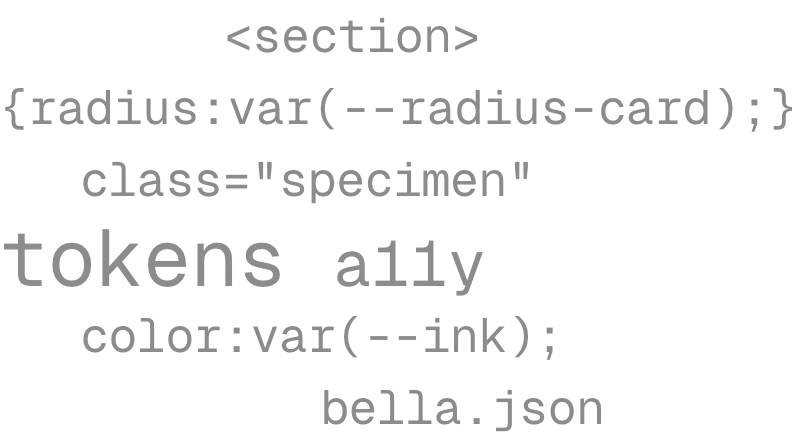
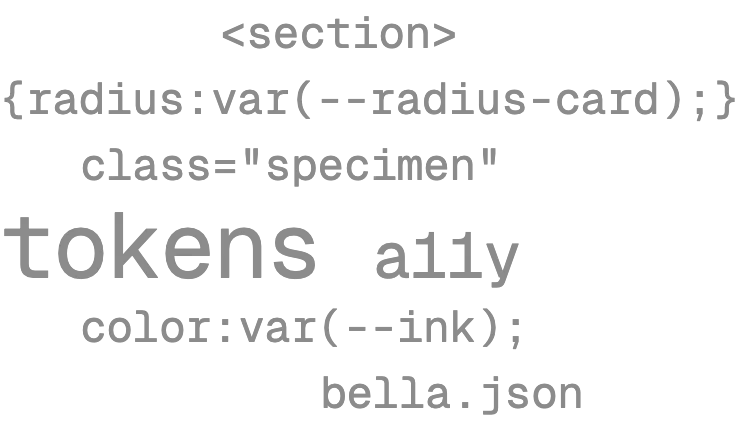
fix(home): hero scale matches the prototype
The 1024 step-down (scale 0.78) is gone: the full stage at every width
from 901px, the right column narrowed there to clear the hair. The
words start 53px below the photo's top (251 at 1440 in both states).
The faint code is the prototype's own block (370 x 213, a 2x picture)
at left 76% / top 56%, behind the hair and shoulder. The portrait
stays 540 wide: 564 would be over half the 1080px source (audit:sharp).

diff --git a/components/Hero.module.css b/components/Hero.module.css
@@ -20,7 +20,8 @@
 
 .col {
   position: absolute;
-  top: var(--space-stack-lg);
+  /* from the stage's top (frame minus stage), then the word drop */
+  top: calc(var(--hero-frame-h) - var(--hero-stage-h) + var(--hero-word-drop));
   z-index: 6;
   width: var(--hero-col);
 }
@@ -186,6 +187,7 @@
 
 /* the portrait is wider than the card: the shoulder runs past it */
 .portrait {
+  z-index: 1; /* above the faint code in the same layer */
   width: 120%;
   max-width: none; /* the global img cap squashed it to 100% (fixed 18d) */
   filter: drop-shadow(var(--hero-shadow));
@@ -323,16 +325,15 @@
   clip-path: inset(0 0 0 calc(100% * var(--hero-p)));
 }
 
-/* faint code behind the photo, peeking out right of the shoulder: a
-   grey picture (hero-code.webp), faded to sit back on either ground.
-   It starts at shoulder height and ends on the photo's bottom, so none
-   of it shows over the hair or under the hero (18d) */
+/* faint code behind the hair and shoulder, the portrait covering its
+   left part: the prototype's block as a grey picture (hero-code.webp),
+   at its size and place (Elleta, 4 Oct 2026, 18f; supersedes 18d) */
 .code {
   position: absolute;
-  left: 96%;
-  top: 68%;
-  z-index: 1;
-  width: 16.25rem;
+  left: 76%;
+  top: 56%;
+  z-index: 0;
+  width: 23.125rem; /* the prototype's block, 370 x 213 (18f) */
   max-width: none;
   height: auto;
   opacity: calc(0.5 * (1 - var(--hero-p))); /* gone while pulled apart, like the plates fade in (18f) */
@@ -363,7 +364,7 @@
 .legend {
   position: absolute;
   right: 0;
-  top: 18.25rem;
+  top: calc(var(--hero-frame-h) - var(--hero-stage-h) + 16.625rem); /* 266px under the stage top */
   z-index: 8;
   display: grid;
   gap: var(--spacing-3);
@@ -403,15 +404,11 @@
   color: var(--color-ink-muted);
 }
 
-/* the middle widths: the stage steps down beside the columns */
+/* the middle widths keep the full stage (as the prototype); the right
+   column narrows so its lines clear the hair (18f) */
 @media (min-width: 901px) and (max-width: 1199px) {
-  .stage {
-    transform: translateX(-56%) scale(0.78);
-    transform-origin: 50% 100%;
-  }
-
-  .col {
-    width: calc(var(--hero-col) - 2.5rem);
+  .right {
+    width: 15rem;
   }
 }
 

diff --git a/components/Hero.tsx b/components/Hero.tsx
@@ -137,7 +137,7 @@ export default function Hero() {
                   under the contrast floor, so nothing for an audit to read. It rides
                   the photo's layer, behind the photo, in every state */}
               {/* eslint-disable-next-line @next/next/no-img-element */}
-              <img className={styles.code} src="/images/home/hero-code.webp" alt="" width={399} height={222} decoding="async" />
+              <img className={styles.code} src="/images/home/hero-code.webp" alt="" width={370} height={214} decoding="async" />
               {/* eslint-disable-next-line @next/next/no-img-element */}
               <img
                 className={styles.portrait}

diff --git a/app/globals.css b/app/globals.css
@@ -434,11 +434,12 @@ body {
      at half its natural width on a 2x screen (audit:sharp). --hero-p is
      the one motion property: 1 pulled apart, 0 assembled. */
   --hero-p: 0;
-  --hero-frame-h: 30rem;
+  --hero-frame-h: 30.5rem; /* stage top 198 at 1440, as the prototype (18f) */
   --hero-stage-w: 28.125rem;
   --hero-stage-h: 28.375rem;
   --hero-word: clamp(3rem, 1.4rem + 4.4vw, 5.125rem);
   --hero-col: 18.125rem;
+  --hero-word-drop: 3.3125rem; /* the words start 53px below the photo's top, as the prototype (18f) */
   --hero-scroll: 26.25rem;
   --hero-shift-x: 6rem;
   --hero-agent-x: 4.5rem; /* clears the "code" corners by 12px or more when apart (18d) */
